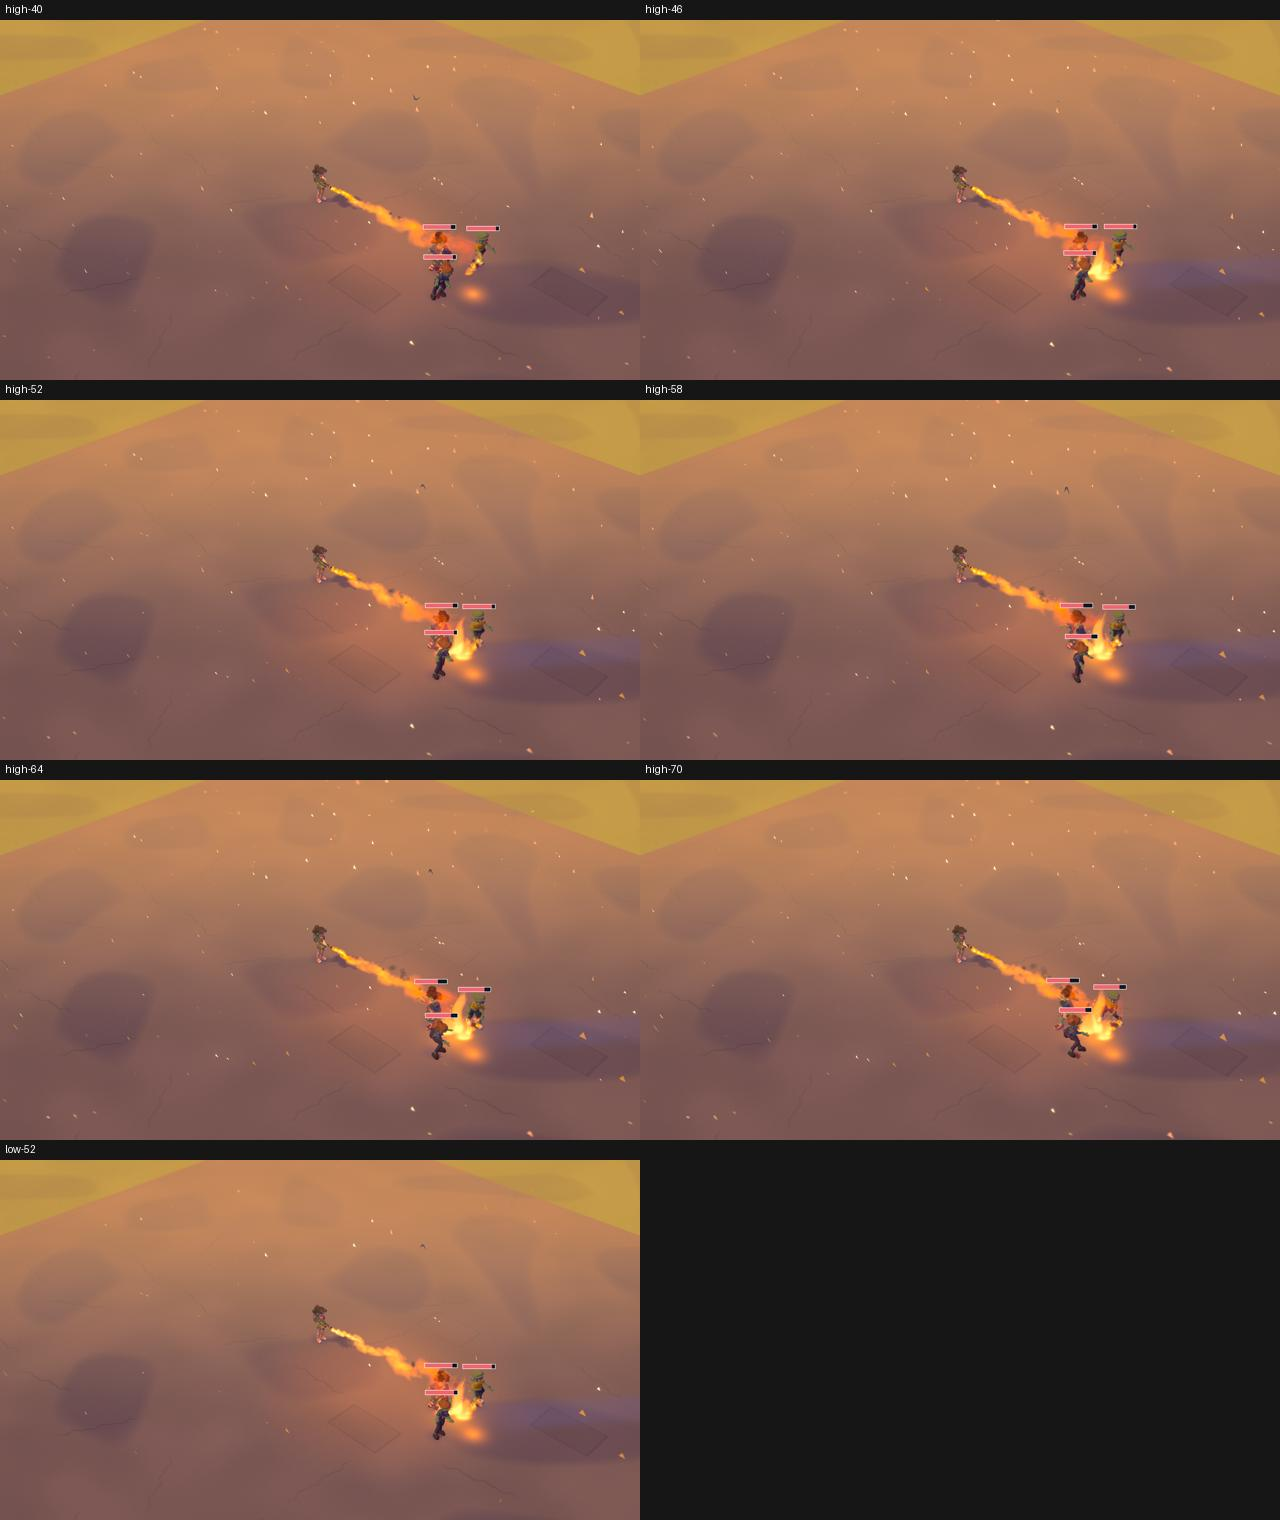
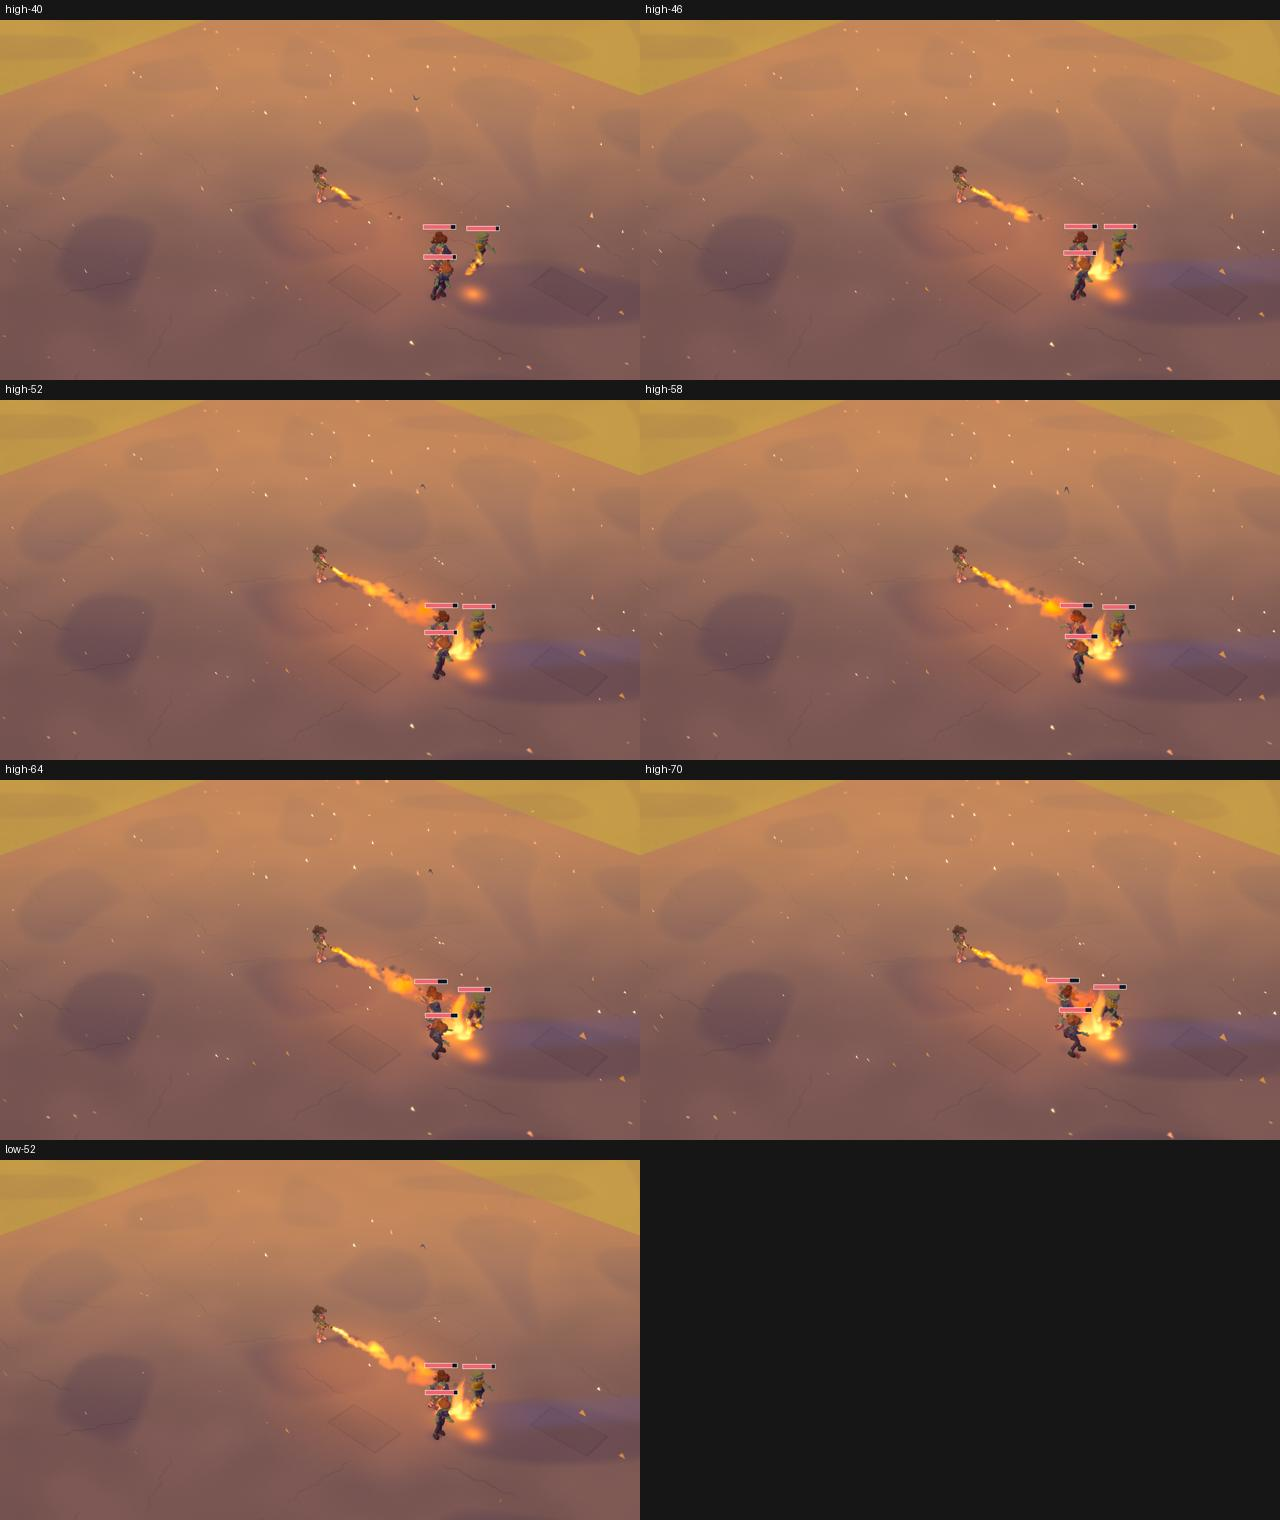
Refresh pooled flame captures and wall probe

diff --git a/docs/reports/s183-flame/README.md b/docs/reports/s183-flame/README.md
@@ -34,3 +34,5 @@ Nozzle light follow-up: a second flickering light-field transient now tracks the
 Release refinement: during the 0.24 s tail, pooled jet cards drop out in a stable scattered order as they fade. I inspected HIGH frame 102: a few faint broken tongues remain near the nozzle, with persistent ground fire farther away; the jet is absent by frame 108. Visible reach now oscillates at 8 Hz between 80% and 100% of the clipped range (±11% around its 90% centre). The run captured no console errors.
 
 Puff follow-up: flame cards now use fixed emission slots recording nozzle position, direction, clipped range and birth time; each travels for 0.32 s while growing and rising. The inspected HIGH frame 52 reaches the target with a broken, irregular orange body and dark flecks. A longer 0.8 s travel trial visibly lagged the already-burning targets and was shortened. The current fight run captured no console errors. Moving/turning, wall, LOW and WebGPU need rechecking against this revision; the earlier capture sheet predates it.
+
+Pooled-puff capture refresh on `6d42a67c`: the sheet now shows the stream building from the nozzle and reaching the infected by frame 52; LOW is irregular and continuous at that frame. The first two HIGH frames show target fires before the traveling visual reaches them, a visible consequence of unchanged instantaneous gameplay damage. The wall probe at frame 52 clips to 2.54 m and the inspected flame ends on the near side. No console errors were captured. Matched fight frame 52: HIGH 62 draws / 27 shared particles / 32 total flame cards; LOW 56 / 11 / 25. Baseline was 62 / 15 / 35 and 56 / 5 / 19 respectively. Timing remains pending.
